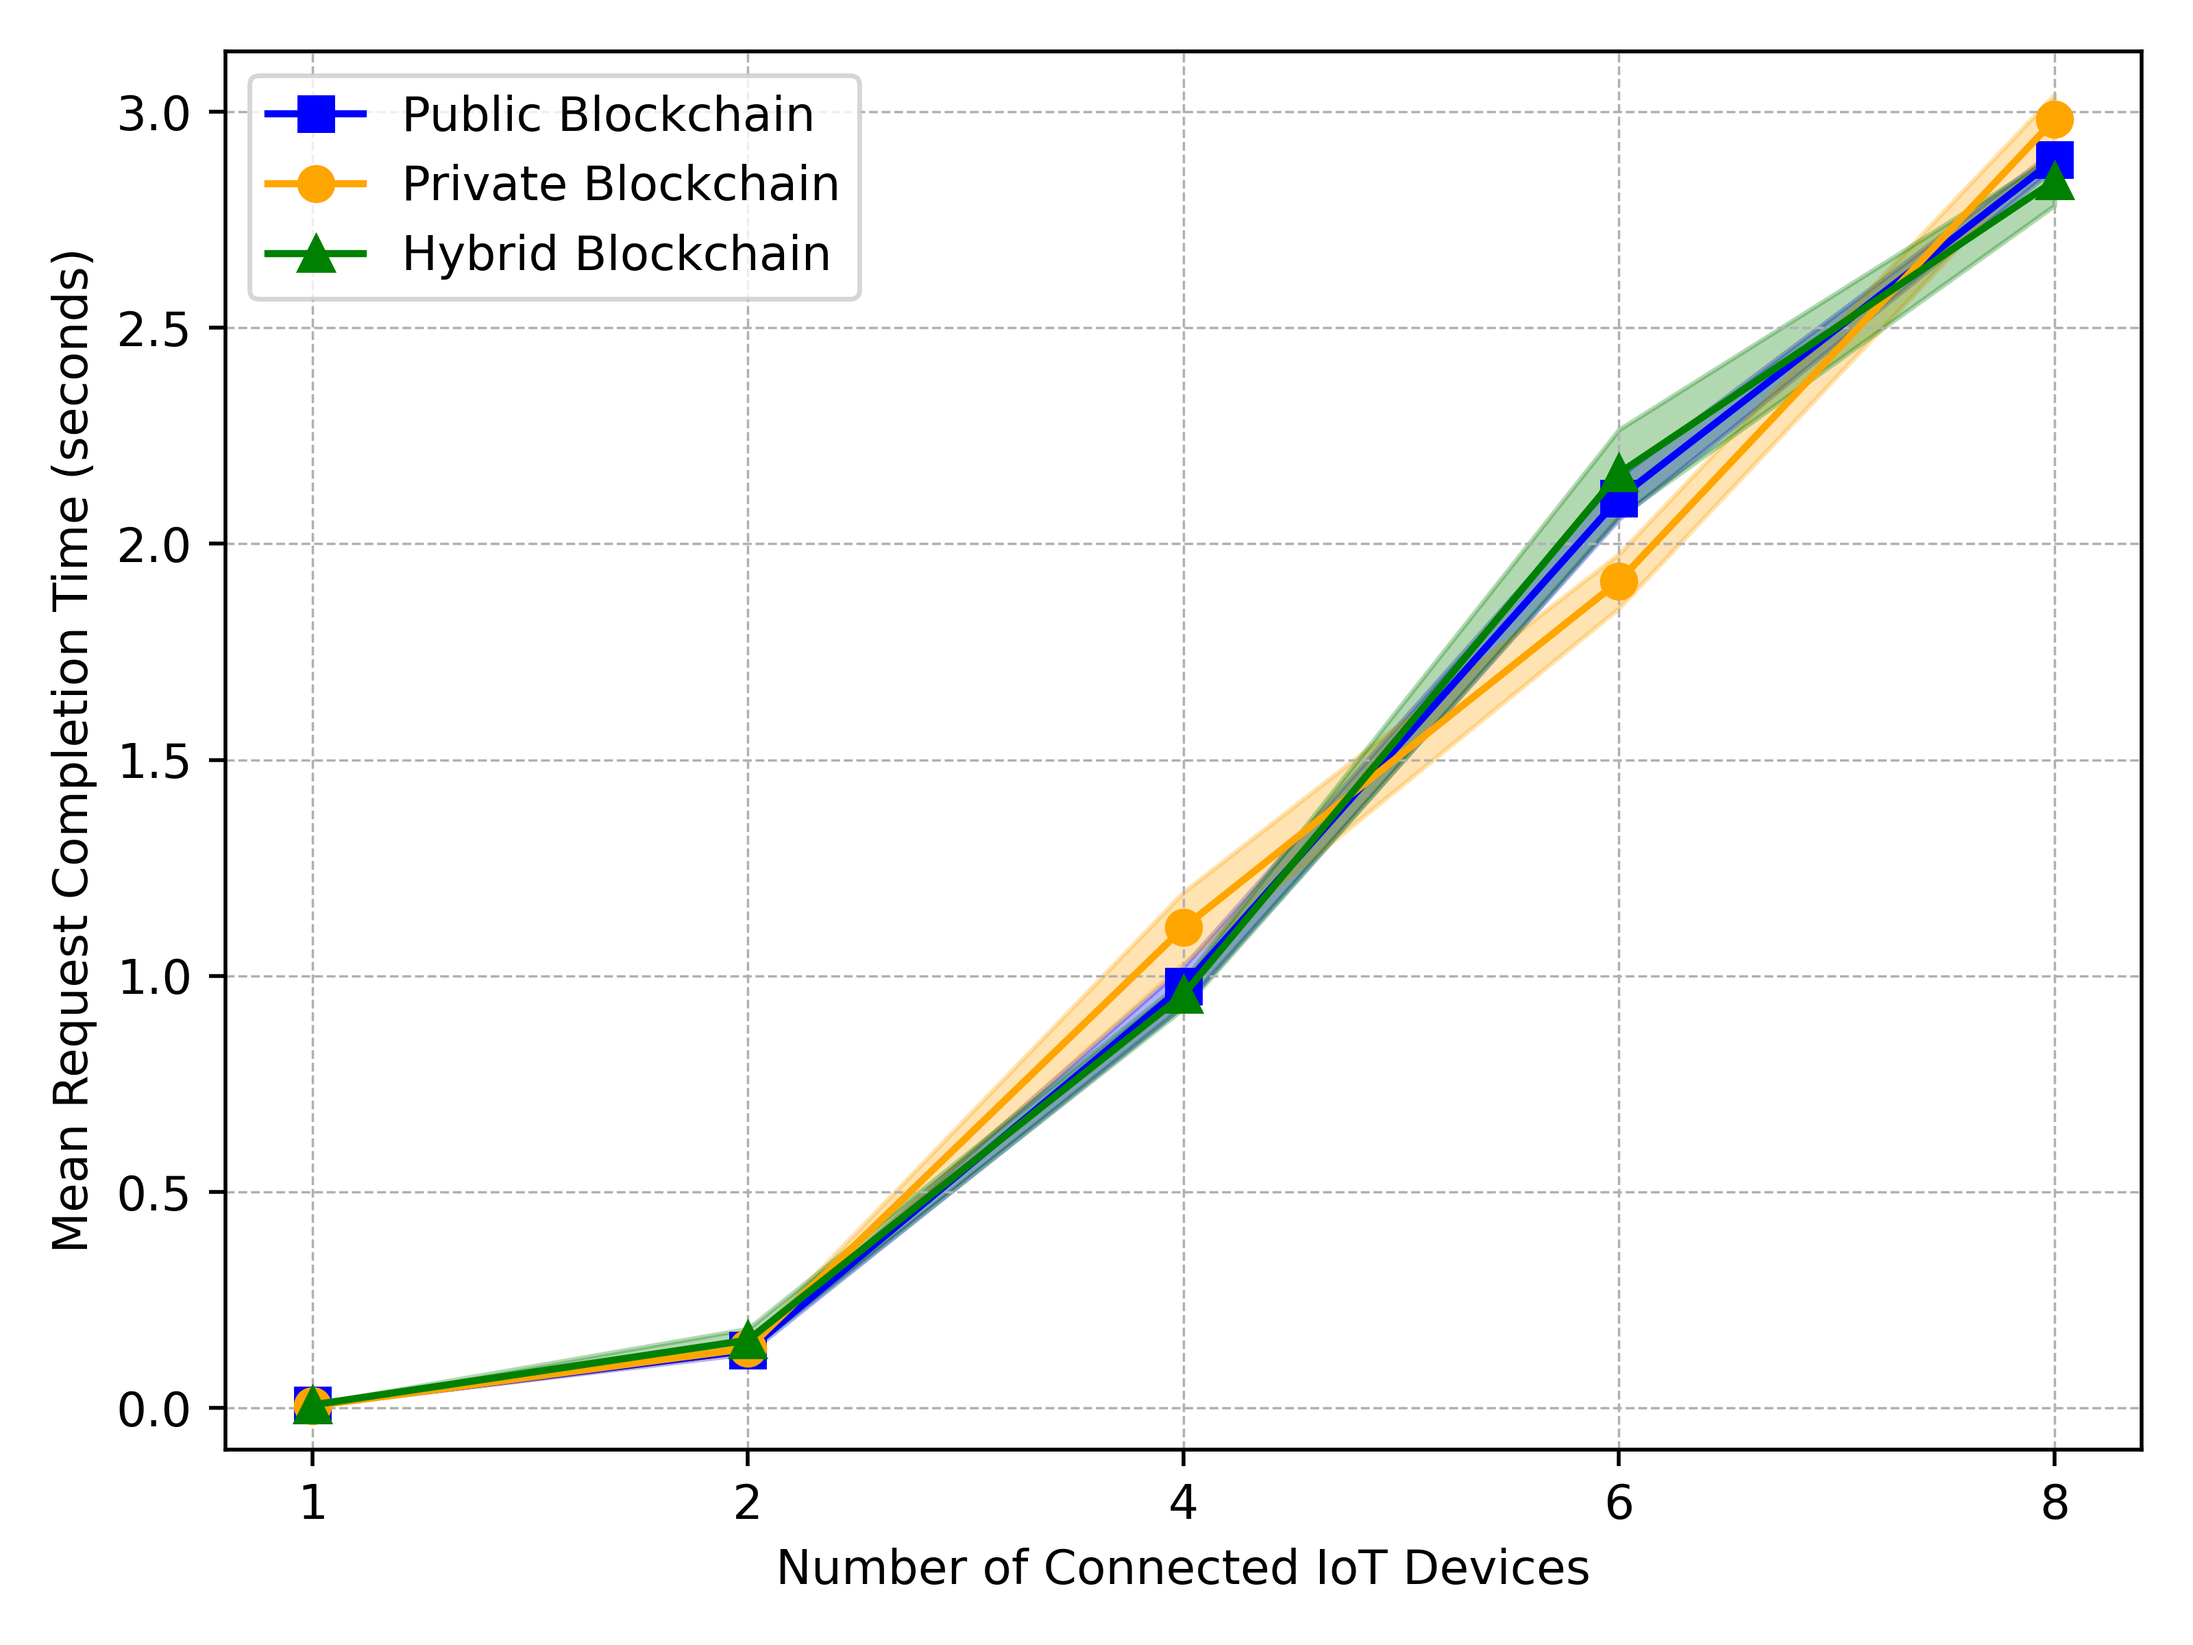
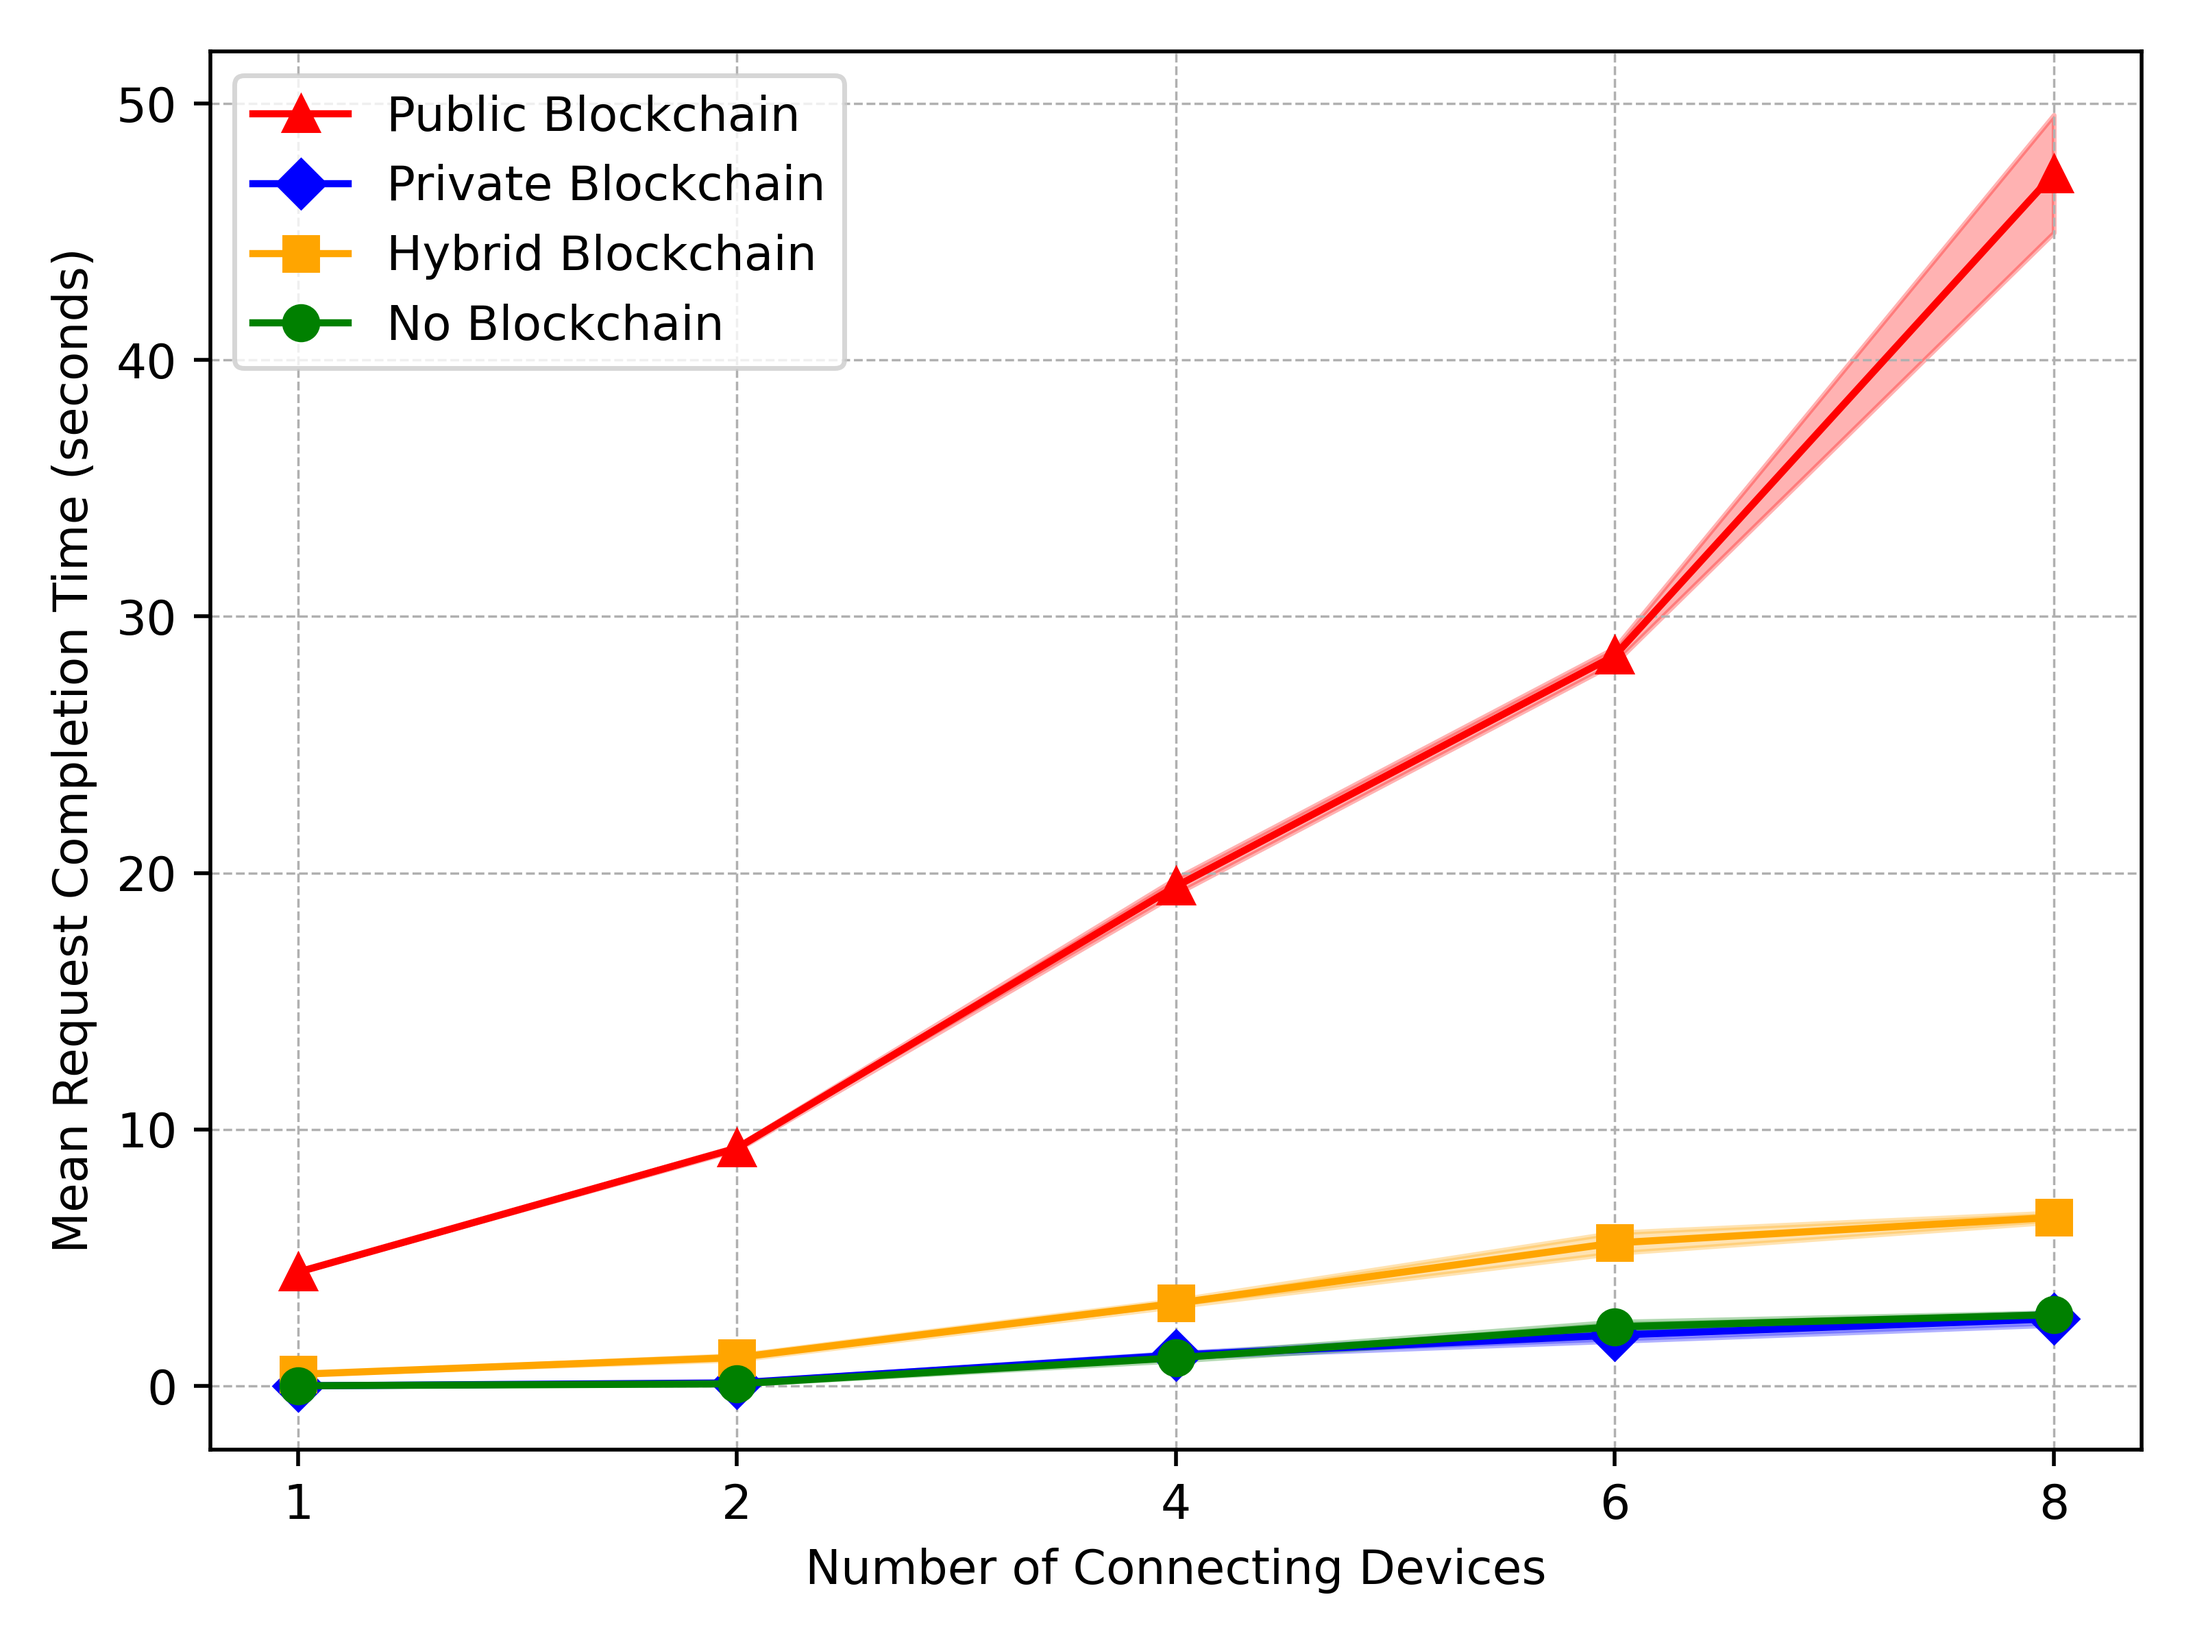
Added connectivity measure to client hash code

diff --git a/server_hash.py b/server_hash.py
@@ -7,13 +7,15 @@ from blockchain.public import Chain as PublicBlockchain
 
 ip_addresses = [
     "192.168.137.110",
-    #"192.168.137.102",
-    #"192.168.137.43",
-    #"192.168.137.175",
-    #"192.168.137.246",
+    "192.168.137.175",
+    "192.168.137.102",
+    "192.168.137.223",
+    "192.168.137.43",
+    "192.168.137.137",
+    "192.168.137.64",
+    "192.168.137.246",
+    
     #"192.168.137.26",
-    #"192.168.137.137",
-    #"192.168.137.64"
 ]
 
 records_private = [
@@ -117,24 +119,26 @@ while True:
                 connection.sendall(bytes(str(response), "utf-8"))
         elif sys.argv[1] == '3': # Sessioned Hybrid
             print(verify_account(message.decode("utf-8"), priv_chain, pub_chain))
+            print(records_session)
+            device_address = address[0]
             if verify_account(message.decode("utf-8"), priv_chain, pub_chain):
                 response = json.dumps({"response": "access granted"})
                 connection.sendall(bytes(str(response), "utf-8"))
             else:
-                if address in records_session:
-                    if records_session[address] > 0:
+                if device_address in records_session:
+                    if records_session[device_address] > 0:
                         response = json.dumps({"response": "access granted"})
                         connection.sendall(bytes(str(response), "utf-8")) 
-                        records_session[address]-=1
-                        if records_session[address] == 0:
-                            records_session.pop(address)
+                        records_session[device_address]-=1
+                        if records_session[device_address] == 0:
+                            records_session.pop(device_address)
                     else:    
                         response = json.dumps({"response": "proof"})
                         connection.sendall(bytes(str(response), "utf-8"))
                         message = connection.recv(1024)
                         if pub_chain.verify_proof(pub_chain.gen_block, message.decode("utf-8")):
                             response = ["access granted"]     
-                            records_session[address] = 9     
+                            records_session[device_address] = 9     
                         else:
                             response = ["access rejected"]
                         connection.sendall(bytes(str(response), "utf-8"))
@@ -144,7 +148,7 @@ while True:
                     message = connection.recv(1024)
                     if pub_chain.verify_proof(pub_chain.gen_block, message.decode("utf-8")):
                         response = ["access granted"]   
-                        records_session[address] = 9        
+                        records_session[device_address] = 9        
                     else:
                         response = ["access rejected"]
                     connection.sendall(bytes(str(response), "utf-8"))

diff --git a/plot_hyb.py b/plot_hyb.py
@@ -1,23 +1,53 @@
 from matplotlib import pyplot as plt
+import numpy as np
 
 dataX = ["1","2","4","6","8"]
 
-#Hyb Blockchain
-dataPub = [4.438865, 9.275252, 19.48161, 28.48011, 47.26013]
-dataPriv = [0.005249, 0.120771, 1.204335, 1.981195, 2.614513]
-dataHyb = [4.456061, 9.243036, 19.45907, 29.06414, 48.55915]
+#Puf Blockchain
+dataPriv = [0.00525, 0.12077, 1.20434, 1.9812, 2.61451]
+dataPub = [4.43887, 9.27525, 19.4816, 28.4801, 47.2601]
+dataHyb = [0.45615, 1.10941, 3.22316, 5.57642, 6.57472]
+dataNo = [0.00907, 0.08358, 1.09776, 2.307, 2.77893]
+
+stdPriv = [0.00053, 0.21015, 0.46051, 1.22827, 1.28253]
+stdPub = [0.00876, 0.41707, 1.60829, 1.57993, 12.0961]
+stdHyb = [0.00499, 0.49598, 0.66698, 2.1203, 0.97057]
+stdNo = [0.00054, 0.15973, 0.61723, 1.02884, 0.48083]
+
+dataPub = np.array(dataPub)
+dataPriv = np.array(dataPriv)
+dataHyb = np.array(dataHyb)
+dataNo = np.array(dataNo)
+
+stdPub = np.array(stdPub)
+stdPriv = np.array(stdPriv)
+stdHyb = np.array(stdHyb)
+stdNo = np.array(stdNo)
 
 
-def plot_data(dataX, dataPub, dataPriv, dataHyb, name):
+def plot_data(dataX, dataPub, dataPriv, dataHyb, dataNo, name):
     plt.figure(dpi=500)
-    plt.plot(dataX,dataPub,marker='s', ms=8, label="Public Blockchain", color="blue")
-    plt.plot(dataX,dataPriv,marker='o', ms=8,label="Private Blockchain", color="orange")
-    plt.plot(dataX,dataHyb,marker='^', ms=8,label="Hybrid Blockchain", color="green")
-    plt.xlabel("Number of Connected IoT Devices")
-    plt.ylabel("Average Request Completion Time (seconds)")
+    # Plot mean lines
+    plt.plot(dataX, dataPub, '-^', ms=7, color='red', label='Public Blockchain')
+    plt.plot(dataX, dataPriv, '-D', ms=7, color='blue', label='Private Blockchain')
+    plt.plot(dataX, dataHyb, '-s', ms=7, color='orange', label='Hybrid Blockchain')
+    plt.plot(dataX, dataNo, '-o', ms=7, color='green', label='No Blockchain')
+
+
+    # Plot shaded std areas
+    plt.fill_between(dataX, dataPub - stdPub, dataPub + stdPub, color='red', alpha=0.3)
+    plt.fill_between(dataX, dataPriv - stdPriv, dataPriv + stdPriv, color='blue', alpha=0.3)
+    plt.fill_between(dataX, dataHyb - stdHyb, dataHyb + stdHyb, color='orange', alpha=0.3)
+    plt.fill_between(dataX, dataNo - stdNo, dataNo + stdNo, color='green', alpha=0.3)
+    
+    plt.xlabel("Number of connecting devices")
+    plt.ylabel("Mean request completion time (seconds)")
+    #plt.ylim(min(dataPriv - stdPriv) - 0.1, max(dataPriv + stdPriv) + 0.1)
     plt.legend()
     plt.grid(linestyle = '--', linewidth = 0.5)
     plt.tight_layout()
     plt.savefig(name)
 
-plot_data(dataX, dataPub, dataPriv, dataHyb, 'hyb_block_resp')
+#plot_data(dataX, dataCY, dataEY, 'responsiveness')
+#plot_data(dataX, dataPub, dataPriv, 'med_block_resp')
+plot_data(dataX, dataPub, dataPriv, dataHyb, dataNo, 'block_resp')

diff --git a/client_hash.py b/client_hash.py
@@ -8,11 +8,13 @@ pub_chain = PublicBlockchain(4)
 
 
 averages = []
+reset_counts = []
 for i in range(3):
     reset = 1
     start = 0
     total = 0
     counter = 0
+    reset_count = 0
     while counter < 10:
         if reset == 1:
             start = time.time()
@@ -53,4 +55,9 @@ for i in range(3):
         except Exception as msg:
             print(msg)
             reset = 0
+        
+        if reset = 0:
+            reset_count += 1
+    reset_counts.append(reset_count)
 print(averages)
+print(reset_counts)
